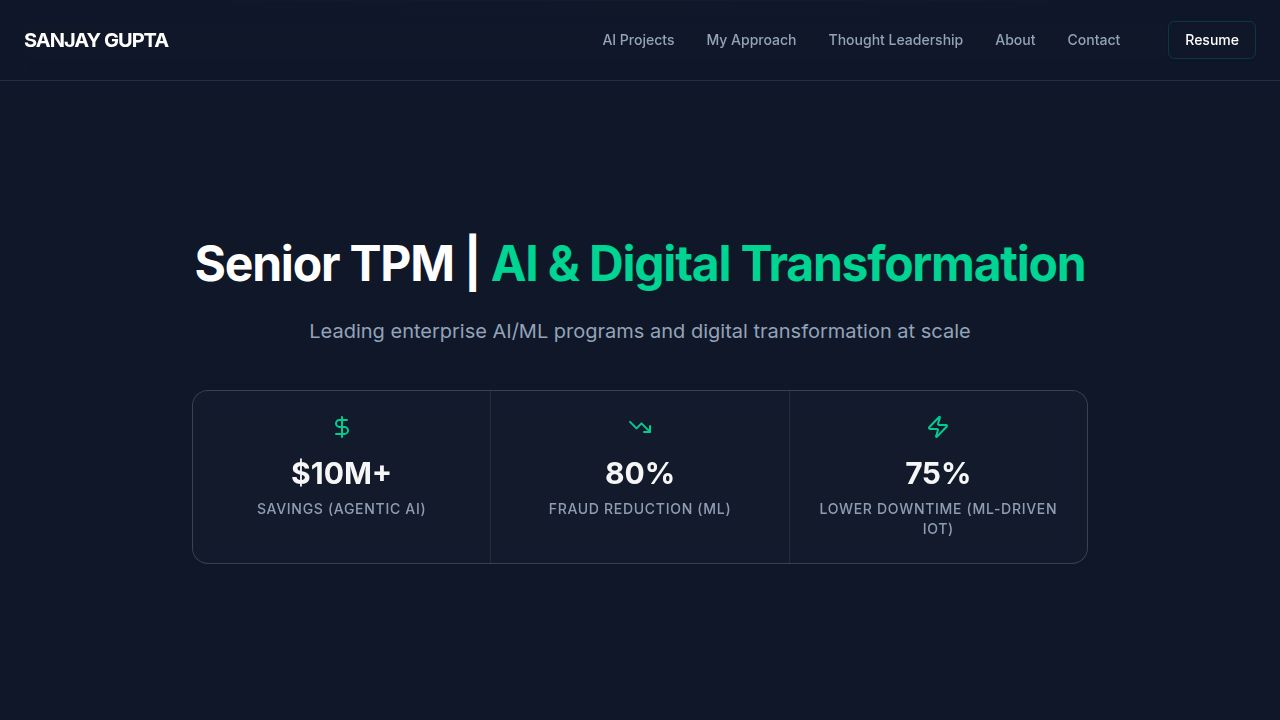
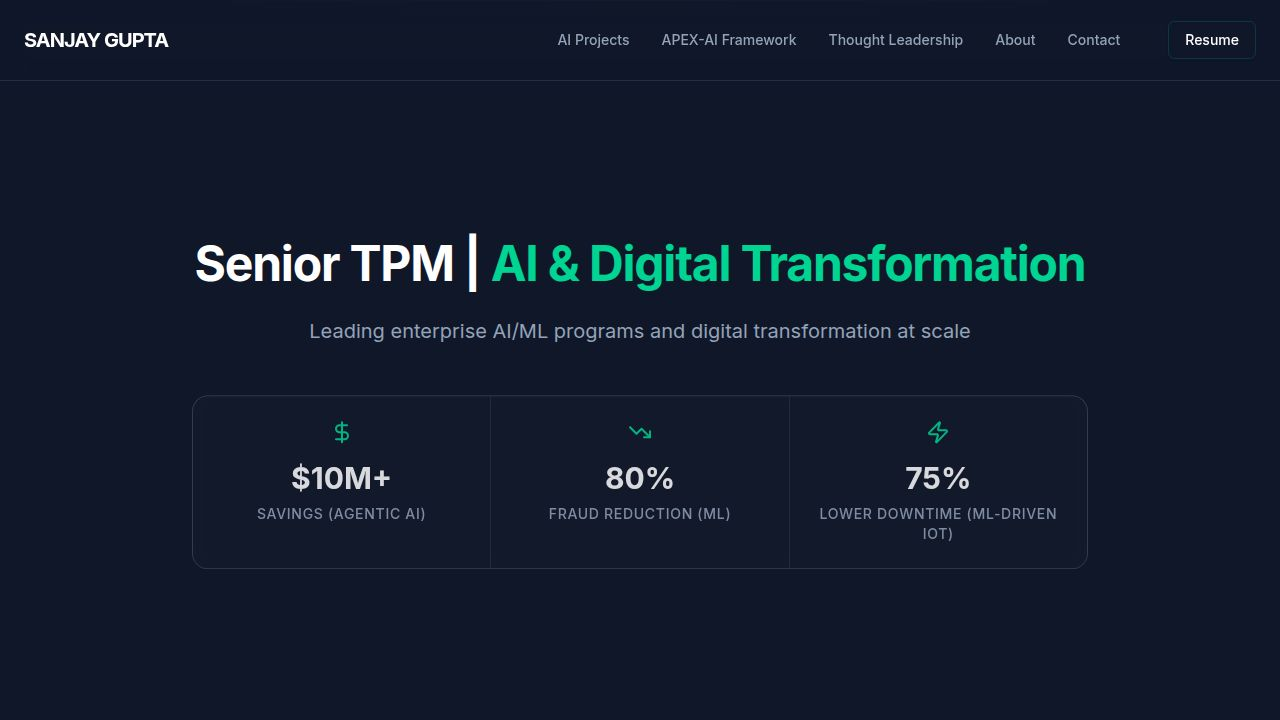
Update project details, navigation, and skills section with new information
Modify Navbar to rename "My Approach" to "APEX-AI Framework". Update Project section with new dates for Fraud Detection (2024-2025) and IoT Predictive Maintenance (2019-2020), and update Vibe Coding build time to 8 Hours. Refresh Thought Leadership section by reordering Program Management skills and adding Smartsheet to Platforms & Tools. Update Contact section text from "speaking opportunities" to "collaboration". Update footer year to 2026 and remove "Deployed on Vercel". Update case-study.tsx period for Fraud Detection to 2024-2025 and footer year to 2026.

Replit-Commit-Author: Agent
Replit-Commit-Session-Id: 3a88e3a7-360a-458e-9e7e-aaafba10e8a5
Replit-Commit-Checkpoint-Type: full_checkpoint
Replit-Commit-Event-Id: 93e08469-9cc9-4c8a-894d-4a7725e8963b
Replit-Commit-Screenshot-Url: https://storage.googleapis.com/screenshot-production-us-central1/7cde7cb2-ef80-49d1-80b2-d9b551cf30d3/3a88e3a7-360a-458e-9e7e-aaafba10e8a5/4xOtw4O
Replit-Helium-Checkpoint-Created: true

diff --git a/client/src/components/sections/Projects.tsx b/client/src/components/sections/Projects.tsx
@@ -32,7 +32,7 @@ const projects = [
   {
     id: 2,
     title: "AI-Powered Fraud Detection System",
-    context: "RingCentral | 2022-2024",
+    context: "RingCentral | 2024-2025",
     stats: [
       { label: "Fraud Reduction", value: "80%" },
       { label: "Contact Centers", value: "12" },
@@ -48,7 +48,7 @@ const projects = [
   {
     id: 3,
     title: "AI-Driven IoT Predictive Maintenance",
-    context: "Applied Materials | 2016-2020",
+    context: "Applied Materials | 2019-2020",
     stats: [
       { label: "Downtime Reduction", value: "75%" },
       { label: "Cost Optimization", value: "30-50%" },
@@ -66,7 +66,7 @@ const projects = [
     title: "Vibe Coding: SEO Audit Tool",
     context: "Global Hackathon | 2025",
     stats: [
-      { label: "Build Time", value: "4 Hours" },
+      { label: "Build Time", value: "8 Hours" },
       { label: "Manual Coding", value: "Zero" },
       { label: "Status", value: "Production" }
     ],

diff --git a/client/src/components/sections/Contact.tsx b/client/src/components/sections/Contact.tsx
@@ -22,7 +22,7 @@ export function Contact() {
             transition={{ delay: 0.1 }}
             className="text-lg text-muted-foreground max-w-2xl"
           >
-            Interested in AI/GenAI programs, enterprise transformation, or speaking opportunities? I'd love to hear from you.
+            Interested in AI/GenAI programs, enterprise transformation, or collaboration? I'd love to hear from you.
           </motion.p>
         </div>
 
@@ -51,7 +51,7 @@ export function Contact() {
 
         <div className="text-center pt-12 border-t border-white/5">
           <p className="text-sm text-muted-foreground/60">
-            Built with Replit AI using vibe coding • Deployed on Vercel • © 2025 Sanjay Gupta
+            Built with Replit AI using vibe coding • © 2026 Sanjay Gupta
           </p>
         </div>
       </div>

diff --git a/client/src/components/sections/ThoughtLeadership.tsx b/client/src/components/sections/ThoughtLeadership.tsx
@@ -16,7 +16,7 @@ const skillGroups = [
   },
   {
     title: "PROGRAM MANAGEMENT",
-    skills: ["Cross-Functional Leadership", "Stakeholder Management", "Risk & Issue Management", "Dependency Management", "Change Management", "Vendor Management"]
+    skills: ["Program Strategy & Roadmapping", "Governance & Compliance", "Executive Communication & Influence", "Resource & Budget Management", "Stakeholder Management", "Risk & Issue Management", "Dependency Management", "Change Management", "Vendor Management"]
   },
   {
     title: "METHODOLOGIES",
@@ -24,7 +24,7 @@ const skillGroups = [
   },
   {
     title: "PLATFORMS & TOOLS",
-    skills: ["AWS", "GCP", "Vertex AI", "Azure", "Jira", "Confluence", "monday.com"]
+    skills: ["AWS", "GCP", "Vertex AI Agent Builder", "Azure", "Jira", "Confluence", "monday.com", "Smartsheet"]
   }
 ];
 

diff --git a/client/src/pages/case-study.tsx b/client/src/pages/case-study.tsx
@@ -46,7 +46,7 @@ const caseStudies = {
   "fraud-detection": {
     title: "AI-Powered Fraud Detection Across Global Contact Centers",
     company: "RingCentral",
-    period: "2022–2024",
+    period: "2024–2025",
     context: "Escalating fraud losses with 24–48 hour detection lag across 12 global contact centers serving 1,000+ agents",
     impact: [
       { label: "Fraud Reduction (6 mo)", value: "80%", icon: Shield },
@@ -249,7 +249,7 @@ export default function CaseStudy({ params }: CaseStudyProps) {
 
       <footer className="py-12 border-t border-white/5 bg-slate-900/40">
         <div className="container mx-auto px-6 text-center text-sm text-muted-foreground/60">
-          Built with Replit AI • © 2025 Sanjay Gupta
+          Built with Replit AI • © 2026 Sanjay Gupta
         </div>
       </footer>
     </div>

diff --git a/client/src/components/layout/Navbar.tsx b/client/src/components/layout/Navbar.tsx
@@ -5,7 +5,7 @@ import { Button } from "@/components/ui/button";
 
 const navLinks = [
   { name: "AI Projects", href: "#projects" },
-  { name: "My Approach", href: "#approach" },
+  { name: "APEX-AI Framework", href: "#approach" },
   { name: "Thought Leadership", href: "#thoughts" },
   { name: "About", href: "#about" },
   { name: "Contact", href: "#contact" },
